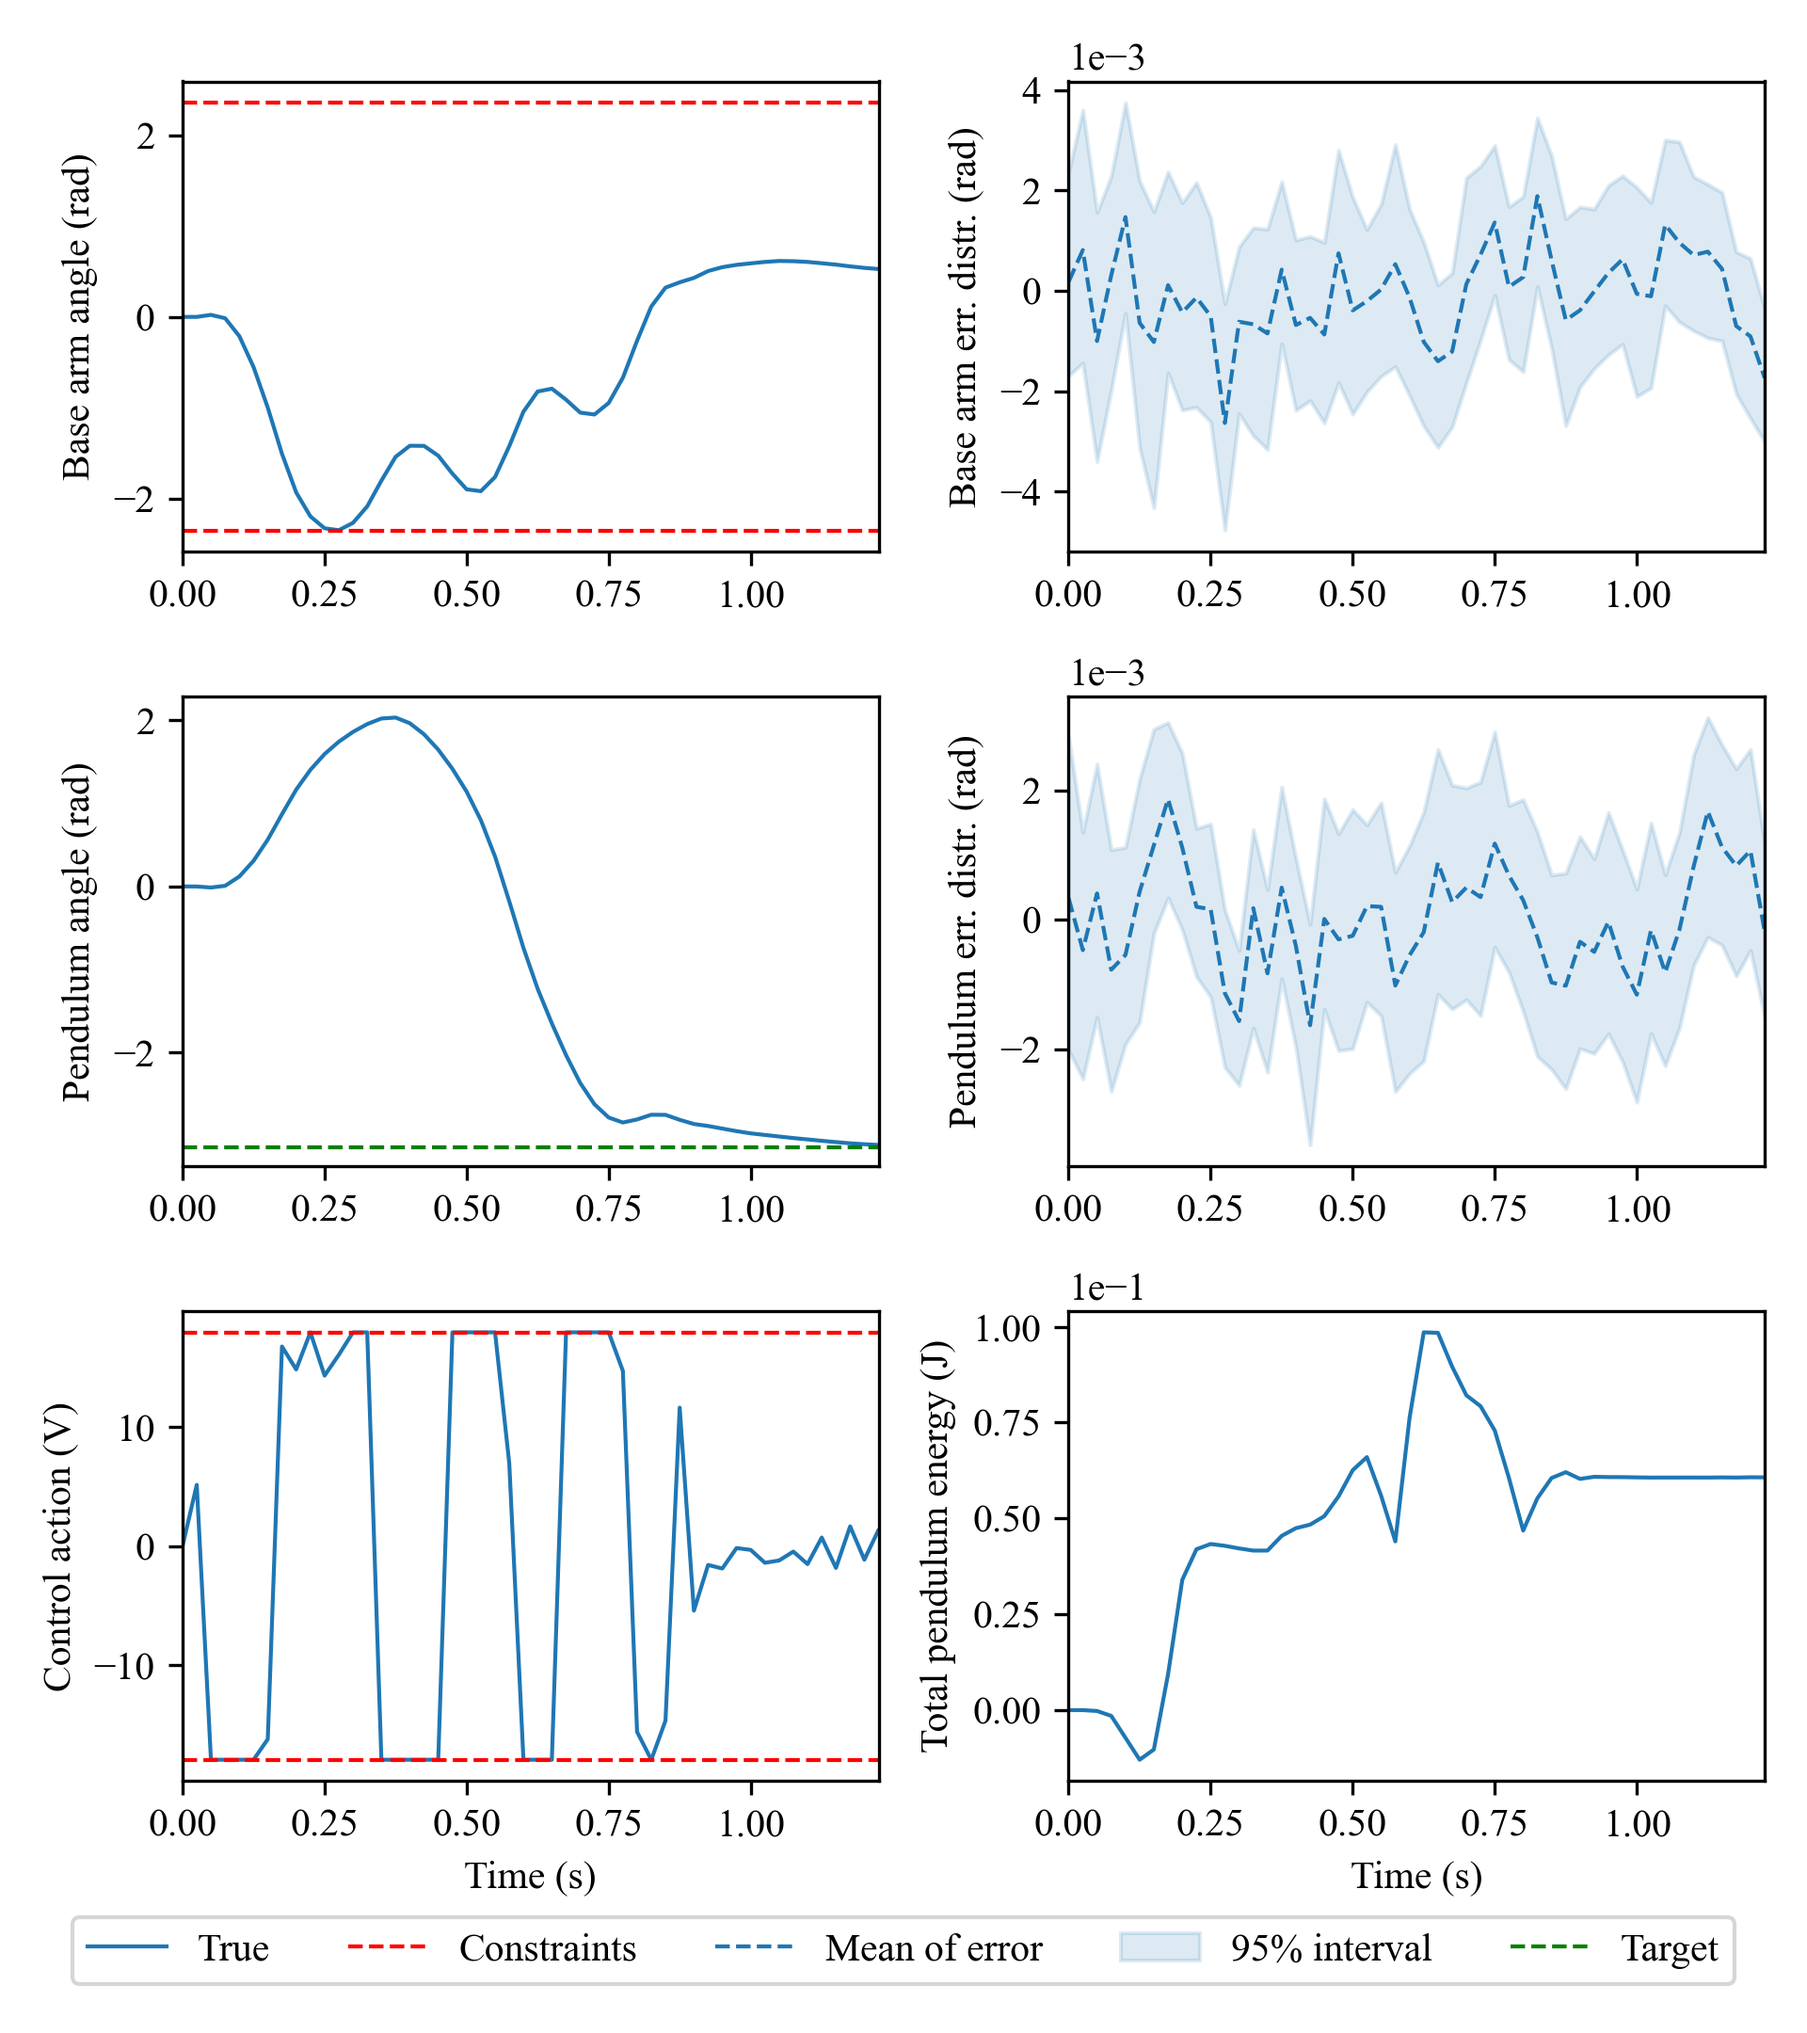
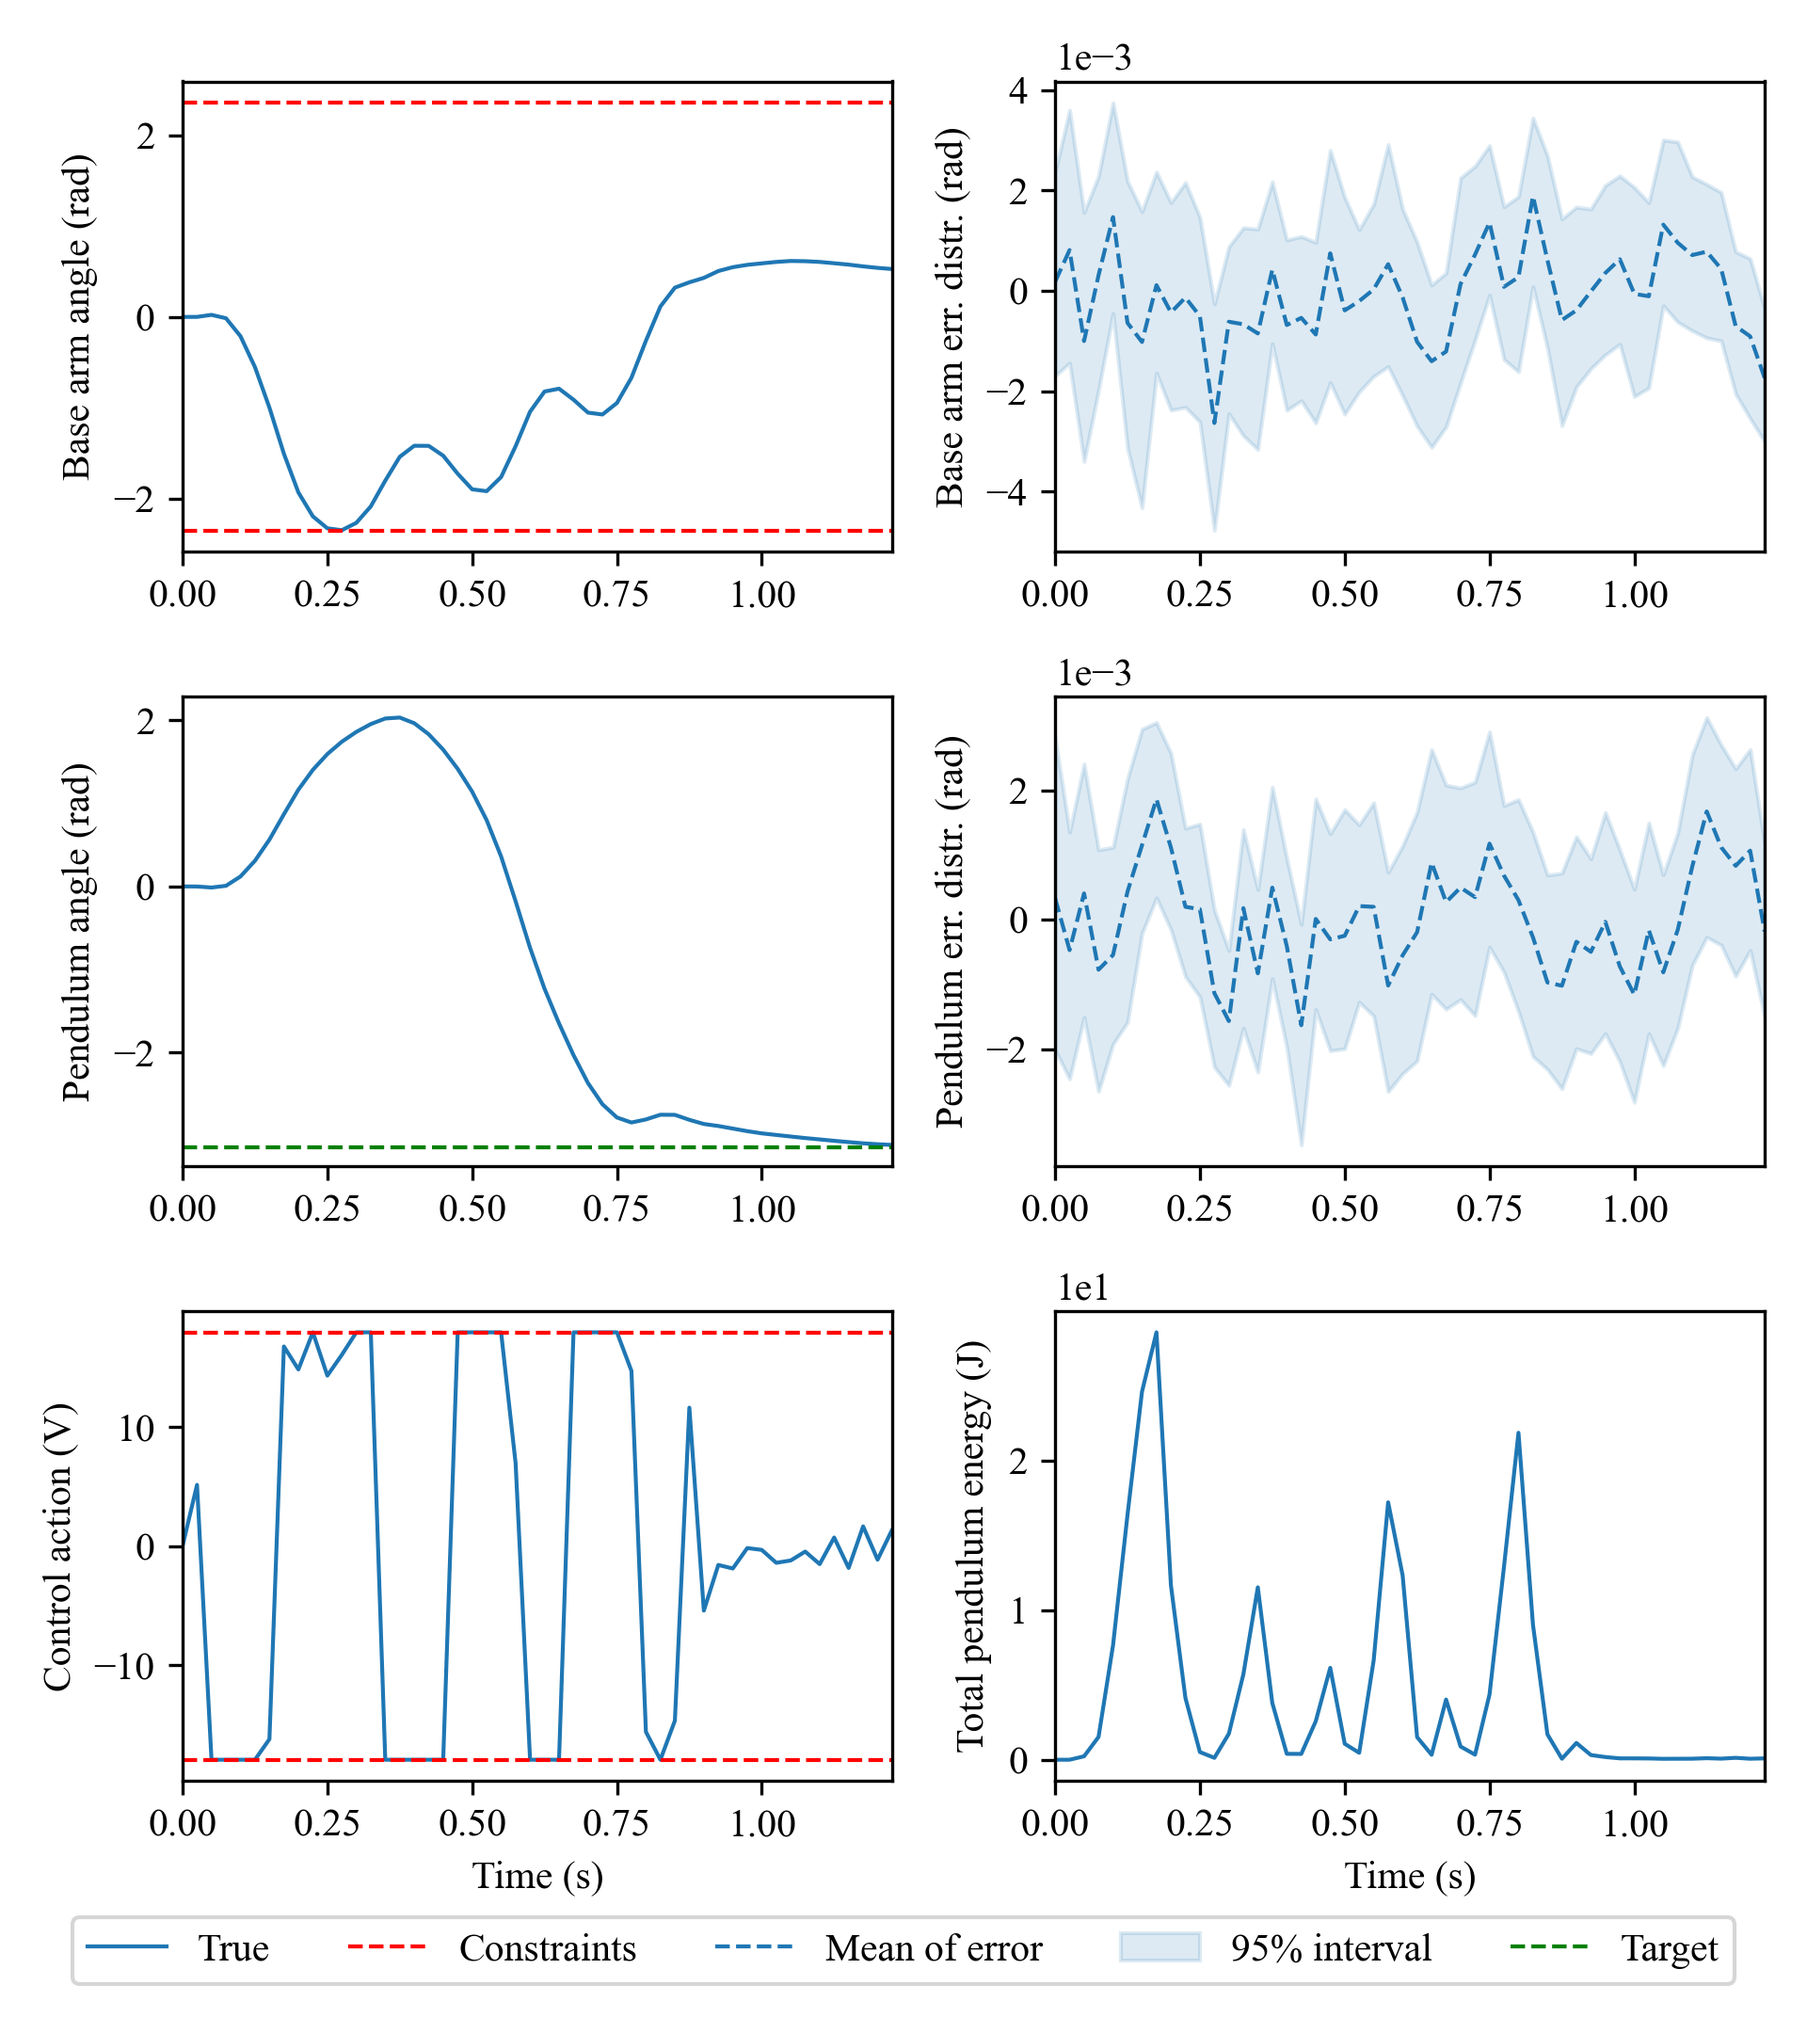
video done

diff --git a/animator.py b/animator.py
@@ -1,0 +1,133 @@
+import matplotlib.pyplot as plt 
+import mpl_toolkits.mplot3d.axes3d as p3
+import matplotlib.animation as animation
+# from matplotlib.colors import LightSource
+import numpy as np
+import pickle
+from scipy.interpolate import interp1d
+
+
+def generate_cylinder(p0,p1,R):
+    ''' Generates the X, Y, Z meshgrid stuff for a cylinder, starting p0, ending p1, with radius R
+        Thank you stack overflow: https://stackoverflow.com/questions/39822480/plotting-a-solid-cylinder-centered-on-a-plane-in-matplotlib'''
+    v = p1 - p0 # these gotta be tuples or np arrays, 1d
+    mag = np.linalg.norm(v)
+    v = v/mag
+    not_v = np.array([1, 0, 0])
+    if (v == not_v).all():
+        not_v = np.array([0, 1, 0])
+    n1 = np.cross(v,not_v)
+    n1 /= np.linalg.norm(n1)
+    n2 = np.cross(v, n1)
+    n2 /= np.linalg.norm(n2)
+    t = np.linspace(0, mag, 2)
+    theta = np.linspace(0, 2 * np.pi, 100)
+    rsample = np.linspace(0, R, 2)
+    t, theta2 = np.meshgrid(t, theta)
+    rsample,theta = np.meshgrid(rsample, theta)
+    #generate coordinates for surface
+    # "Tube"
+    X, Y, Z = [p0[i] + v[i] * t + R * np.sin(theta2) * n1[i] + R * np.cos(theta2) *       n2[i] for i in [0, 1, 2]]
+    # "Bottom"
+    X2, Y2, Z2 = [p0[i] + rsample[i] * np.sin(theta) * n1[i] + rsample[i] * np.cos(theta) * n2[i] for i in [0, 1, 2]]
+    # "Top"
+    X3, Y3, Z3 = [p0[i] + v[i]*mag + rsample[i] * np.sin(theta) * n1[i] + rsample[i] * np.cos(theta) * n2[i] for i in [0, 1, 2]]
+    return X,Y,Z,X2,Y2,Z2,X3,Y3,Z3
+
+
+run = 'run11'
+with open('results/'+run+'/z_sim100.pkl','rb') as file:
+    z_sim = pickle.load(file)
+
+theta = z_sim[0,0,:].flatten()
+alpha = z_sim[1,0,:].flatten()
+old_lin = np.linspace(0,1,num = len(theta))
+new_lin = np.linspace(0,1,num = 4*len(theta))
+theta_itpl = interp1d(old_lin, theta, kind='cubic')
+alpha_itpl = interp1d(old_lin, alpha, kind='cubic')
+
+alpha= alpha_itpl(new_lin)
+theta= theta_itpl(new_lin)
+
+scale = 2/0.1 # animation to world scale
+
+x_qube, y_qube, z_qube = np.indices((8, 8, 8))
+qube1 = (x_qube > 1) & (y_qube > 2) & (z_qube > -1)
+qube2 = (x_qube < 4) & (y_qube < 5) & (z_qube < 2)
+qube = qube1 & qube2
+colours = np.empty(qube.shape, dtype=object)
+colours[qube] = u'#333333'
+
+origin_xy = np.array([3.0,4.0,0.0])
+origin = np.array([3.0,4.0,2+0.0254*scale])
+
+fig = plt.figure()
+ax = p3.Axes3D(fig)
+ax.voxels(qube,facecolors=colours,edgecolors=None)
+
+ax.xaxis.set_ticklabels([])
+ax.yaxis.set_ticklabels([])
+ax.zaxis.set_ticklabels([])
+
+ax.set_xlim(0, 8)
+ax.set_ylim(0, 8)
+ax.set_zlim3d(0,6)
+
+X,Y,Z,X2,Y2,Z2,X3,Y3,Z3 = generate_cylinder(origin_xy,origin,0.0254/2*scale)
+ax.plot_surface(X, Y, Z, color=u'#777777')
+
+# naughty ways of doing stuff and things
+X,Y,Z,X2,Y2,Z2,X3,Y3,Z3 = generate_cylinder(origin,origin,0.1)
+X4,Y4,Z4,X5,Y5,Z5,X6,Y6,Z6 = generate_cylinder(origin,origin,0.1)
+X7,Y7,Z7,X8,Y8,Z8,X9,Y9,Z9 = generate_cylinder(origin,origin,0.1)
+plot = [ax.plot_surface(X, Y, Z, color=u'#777777'),ax.plot_surface(X2, Y2, Z2, color=u'#777777'),ax.plot_surface(X3, Y3, Z3, color=u'#777777'), ax.plot_surface(X4, Y4, Z4, color=u'#777777'),ax.plot_surface(X5, Y5, Z5, color=u'#777777'),ax.plot_surface(X6, Y6, Z6, color=u'#777777'),ax.plot_surface(X7, Y7, Z7, color=u'#777777'),ax.plot_surface(X8, Y8, Z8, color=u'#777777'),ax.plot_surface(X9, Y9, Z9, color=u'#777777')]
+
+
+#frame update function
+def animate(i,theta,alpha,origin,plot):
+    # ls = LightSource(azdeg =0, altdeg = 65)
+    plot[0].remove()
+    plot[1].remove()
+    plot[2].remove()
+    plot[3].remove()
+    plot[4].remove()
+    plot[5].remove()
+    plot[6].remove()
+    plot[7].remove()
+    plot[8].remove()
+    scale = 2/0.1
+    Lp = 0.129*scale
+    Lr = 0.085*scale
+    R = 0.1
+    r_10 = Lr*np.array([np.cos(theta[i]),np.sin(theta[i]),0.0])
+    start_link_1 = origin
+    end_link_1 = origin + r_10
+    start_motor = origin - 0.02*scale*r_10/np.linalg.norm(r_10)
+    end_motor = origin + 0.03*scale*r_10/np.linalg.norm(r_10)
+    phi = np.arctan(Lp*np.sin(alpha[i])/Lr) + theta[i]
+
+    r_20 = np.sqrt(Lr**2 + (Lp*np.sin(alpha[i]))**2)*np.array([np.cos(phi),np.sin(phi),0.0]) + np.array([0.0,0.0,-Lp*np.cos(alpha[i])])
+    r_21 = r_20 - r_10
+    start_link_2 = origin + r_10 - 0.05*r_21
+    end_link_2 = origin + r_10 + r_21
+    X,Y,Z,X2,Y2,Z2,X3,Y3,Z3 = generate_cylinder(end_motor,end_link_1,0.007/2*scale)
+    # rgb1 = ls.shade(Z)
+    # rgb2 = ls.shade(Z2)
+    # rgb3 = ls.shade(Z3)
+    plot[0] = ax.plot_surface(X, Y, Z, color=u'#EEEEEE')
+    plot[1] = ax.plot_surface(X2, Y2, Z2, color=u'#EEEEEE')
+    plot[2] = ax.plot_surface(X3, Y3, Z3, color=u'#EEEEEE')
+    X,Y,Z,X2,Y2,Z2,X3,Y3,Z3 = generate_cylinder(start_link_2,end_link_2,0.01/2*scale)
+    plot[3] = ax.plot_surface(X, Y, Z, color=u'#EE1111')
+    plot[4] = ax.plot_surface(X2, Y2, Z2, color=u'#EE1111')
+    plot[5] = ax.plot_surface(X3, Y3, Z3, color=u'#EE1111')
+    X,Y,Z,X2,Y2,Z2,X3,Y3,Z3 = generate_cylinder(start_motor,end_motor,0.0254/2*scale)  
+    plot[6] = ax.plot_surface(X, Y, Z, color=u'#EE1111')
+    plot[7] = ax.plot_surface(X2, Y2, Z2, color=u'#EE1111')
+    plot[8] = ax.plot_surface(X3, Y3, Z3, color=u'#EE1111')
+
+ani = animation.FuncAnimation(fig, animate, frames=len(theta), fargs=(theta,alpha,origin,plot),
+                              interval=100, blit=False)
+
+ani.save('pendulum.mp4',writer='ffmpeg',fps=40)
+plt.show()

diff --git a/plot_pendulum_results.py b/plot_pendulum_results.py
@@ -287,7 +287,8 @@ if plotme1:
 
     plt.subplot(3, 2, 6)
     # plt.plot(ts,z_sim[1,0,:-1],label='True',linewidth = 2.0,color='k')
-    kin_pend = 0.5*z_sim[3,0,:-1]*z_sim[3,0,:-1]*(Jp_true+mp_true*Lp_true*Lp_true) + mp_true*Lr_true*Lp_true*np.cos(z_sim[1,0,:-1])*z_sim[3,0,:-1]*z_sim[2,0,:-1]
+    kin_pend = 0.5*z_sim[2,0,:-1]*z_sim[2,0,:-1]*(mp_true*Lp_true*Lp_true + (mp_true*Lp_true*Lp_true+Jp_true)*np.sin(z_sim[1,0,:-1])*np.sin(z_sim[1,0,:-1]) + Lp_true)
+    kin_pend = kin_pend + 0.5*z_sim[3,0,:-1]*z_sim[3,0,:-1]*(Jp_true+mp_true*Lp_true*Lp_true) + mp_true*Lr_true*Lp_true*np.cos(z_sim[1,0,:-1])*z_sim[3,0,:-1]*z_sim[2,0,:-1]
     kin_base = 0.5*z_sim[2,0,:-1]*z_sim[2,0,:-1]*(mr_true*Lr_true*Lr_true + Jr_true)
     kin = kin_base + kin_pend
     pot = grav*mp_true*Lp_true*(1 - np.cos(z_sim[1,0,:-1]))
@@ -418,7 +419,6 @@ if plotme1:
     plt.xlim([0,49*0.025])
     plt.ticklabel_format(style='sci',axis='y',scilimits=(0,0))
     plt.ylabel('Pendulum err. distr. (rad)')
-    plt.xlabel('Time (s)')
     # plt.legend(loc = 'upper right')
 
     plt.subplot(4, 2, 7)
@@ -428,7 +428,6 @@ if plotme1:
     # plt.axhline(-z_star[1,0], linestyle='--', color='g', linewidth=1.0, label='Target')
     plt.xlim([0,49*0.025])
     plt.ylabel('Pendulum velocity (rad/s)')
-    plt.xlabel('Time (s)')
     # plt.legend(loc = 'upper right')
 
     plt.subplot(4, 2, 8)
@@ -442,9 +441,14 @@ if plotme1:
     plt.ylabel('Pendulum velocity err. distr. (rad/s)')
     plt.xlabel('Time (s)')
     # plt.legend(loc = 'upper right')
-    plt.figlegend(loc='upper center',bbox_to_anchor=[0.5, 0.05], ncol=5)
+    lgd = plt.figlegend(loc='upper center',bbox_to_anchor=[0.5, 0.05], ncol=5)
     plt.tight_layout(rect=[0,0.035,1,1])
     plt.savefig('stills/plot_states'+'.png',format='png')
+    fig.set_figheight(4.8)
+    lgd.set_bbox_to_anchor([0.5, 0.1])
+    # plt.figlegend(loc='upper center',bbox_to_anchor=[0.5, 0.1], ncol=5)
+    plt.tight_layout(rect=[0,0.07,1,1])
+    plt.savefig('stills/plot_states_short'+'.png',format='png')
     plt.close()
 
     ## ! PARAMS

diff --git a/plot_single_state_demo.py b/plot_single_state_demo.py
@@ -143,8 +143,9 @@ plt.axhline(u_ub,linestyle='--',color='r',linewidth=2.)
 plt.ylabel('u', fontsize=fontsize)
 plt.xlabel(r'$t$', fontsize=fontsize)
 # plt.subplots_adjust(bottom=0.5)
+plt.tight_layout()
 plt.figlegend(loc='upper center',bbox_to_anchor=[0.55, 0.05], ncol=5)
-plt.tight_layout(rect=[0.0,0.1,1,1])
+
 
 
 plt.show()
